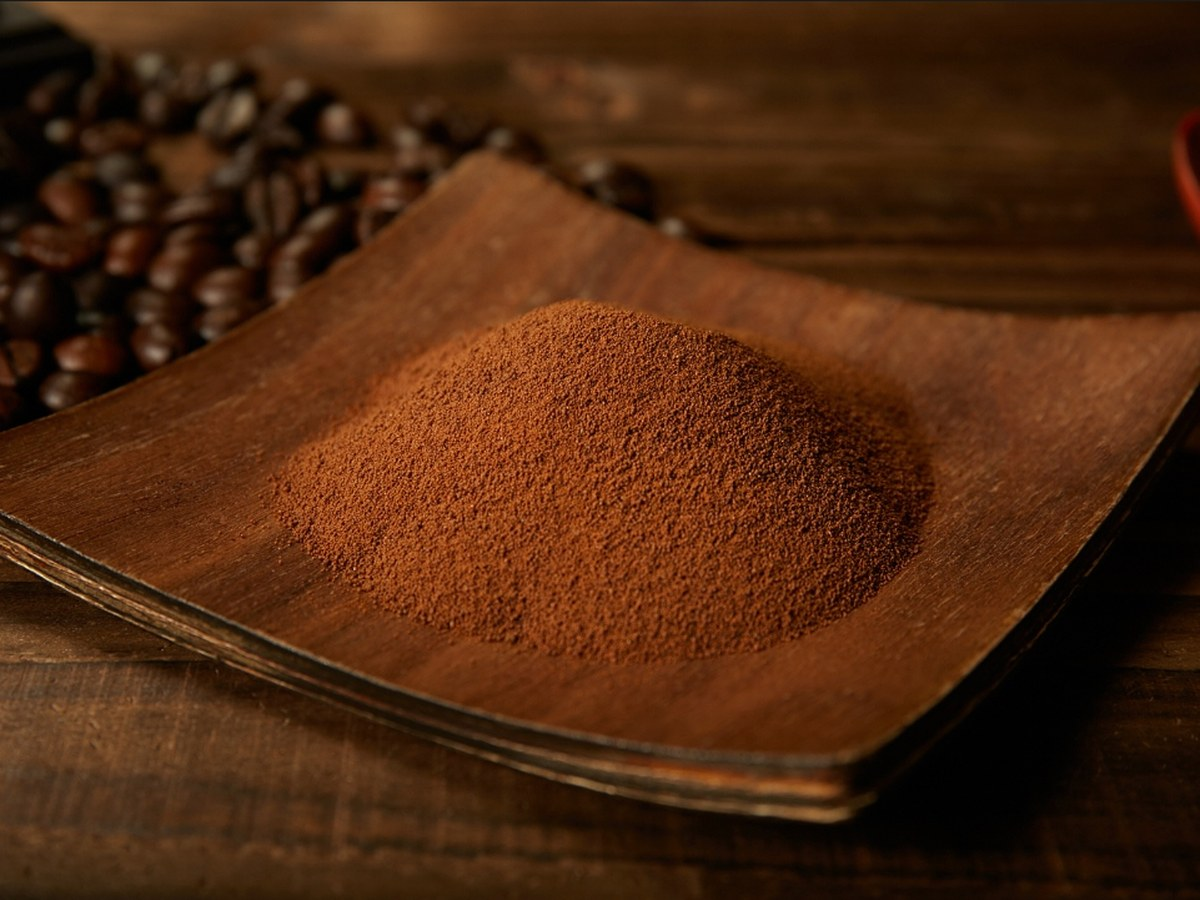
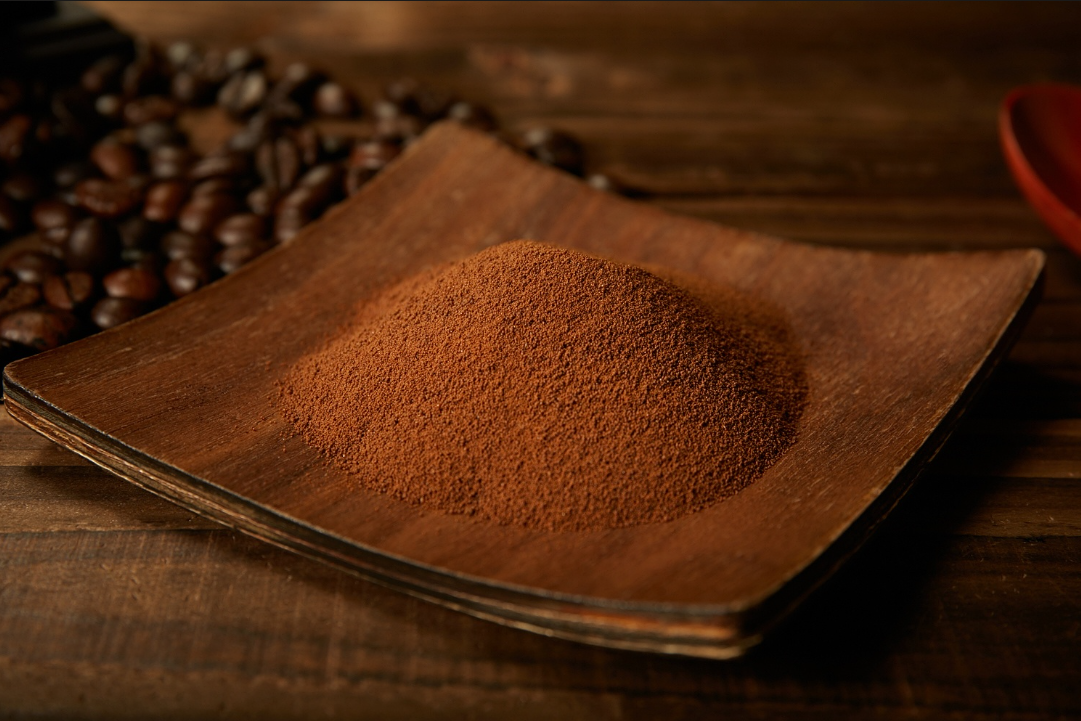
Spray-Dried Powder: 5 SKUs TX-66/76/79/92/10 with unified product photo

diff --git a/index.html b/index.html
@@ -280,6 +280,51 @@
           <p><b>OEM / ODM available.</b> Custom black coffee, 3-in-1 and other flavours; packing in tin can, bottle, stick pack or square pouch, under your brand.</p>
         </div>
         <div class="product-grid product-grid-lg" id="all-products">
+          <article class="product-card" data-cat="spray">
+            <div class="product-img"><img src="assets/images/coffee_powder_hero.jpg" alt="TX-66 spray-dried instant coffee powder" /></div>
+            <p class="product-tag" data-i18n="catSpray">Spray-Dried Powder</p>
+            <h3>TX-66</h3>
+            <p class="product-desc">Standard spray-dried instant coffee powder, medium body, good solubility, suitable for 2-in-1 and 3-in-1 blends.</p>
+            <div class="product-meta"><span>Origin</span><strong>China · Yunnan</strong></div>
+            <div class="product-meta"><span data-i18n="moq">MOQ</span><strong data-i18n="moqVal">Please contact us</strong></div>
+            <a class="product-link" href="#contact" data-i18n="viewProduct">View product</a>
+          </article>
+          <article class="product-card" data-cat="spray">
+            <div class="product-img"><img src="assets/images/coffee_powder_hero.jpg" alt="TX-76 spray-dried instant coffee powder" /></div>
+            <p class="product-tag" data-i18n="catSpray">Spray-Dried Powder</p>
+            <h3>TX-76</h3>
+            <p class="product-desc">Balanced spray-dried instant coffee with rich aroma and clean finish, ideal for black coffee sachets.</p>
+            <div class="product-meta"><span>Origin</span><strong>China · Yunnan</strong></div>
+            <div class="product-meta"><span data-i18n="moq">MOQ</span><strong data-i18n="moqVal">Please contact us</strong></div>
+            <a class="product-link" href="#contact" data-i18n="viewProduct">View product</a>
+          </article>
+          <article class="product-card" data-cat="spray">
+            <div class="product-img"><img src="assets/images/coffee_powder_hero.jpg" alt="TX-79 spray-dried instant coffee powder" /></div>
+            <p class="product-tag" data-i18n="catSpray">Spray-Dried Powder</p>
+            <h3>TX-79</h3>
+            <p class="product-desc">Fuller-bodied spray-dried instant coffee with deeper roast character, for strong black coffee and espresso-style blends.</p>
+            <div class="product-meta"><span>Origin</span><strong>China · Yunnan</strong></div>
+            <div class="product-meta"><span data-i18n="moq">MOQ</span><strong data-i18n="moqVal">Please contact us</strong></div>
+            <a class="product-link" href="#contact" data-i18n="viewProduct">View product</a>
+          </article>
+          <article class="product-card" data-cat="spray">
+            <div class="product-img"><img src="assets/images/coffee_powder_hero.jpg" alt="TX-92 spray-dried instant coffee powder" /></div>
+            <p class="product-tag" data-i18n="catSpray">Spray-Dried Powder</p>
+            <h3>TX-92</h3>
+            <p class="product-desc">Premium spray-dried instant coffee with high aroma retention, smooth and rich — suitable for premium retail black coffee.</p>
+            <div class="product-meta"><span>Origin</span><strong>China · Yunnan</strong></div>
+            <div class="product-meta"><span data-i18n="moq">MOQ</span><strong data-i18n="moqVal">Please contact us</strong></div>
+            <a class="product-link" href="#contact" data-i18n="viewProduct">View product</a>
+          </article>
+          <article class="product-card" data-cat="spray">
+            <div class="product-img"><img src="assets/images/coffee_powder_hero.jpg" alt="TX-10 spray-dried instant coffee powder" /></div>
+            <p class="product-tag" data-i18n="catSpray">Spray-Dried Powder</p>
+            <h3>TX-10</h3>
+            <p class="product-desc">Economical spray-dried instant coffee powder, light body, consistent quality — best for cost-effective bulk blends.</p>
+            <div class="product-meta"><span>Origin</span><strong>China · Yunnan</strong></div>
+            <div class="product-meta"><span data-i18n="moq">MOQ</span><strong data-i18n="moqVal">Please contact us</strong></div>
+            <a class="product-link" href="#contact" data-i18n="viewProduct">View product</a>
+          </article>
           <article class="product-card" data-cat="oem">
             <div class="product-img"><img src="assets/images/functional_coffee.jpg" alt="Functional instant coffee" /></div>
             <p class="product-tag" data-i18n="catOem">OEM / ODM Custom</p>
